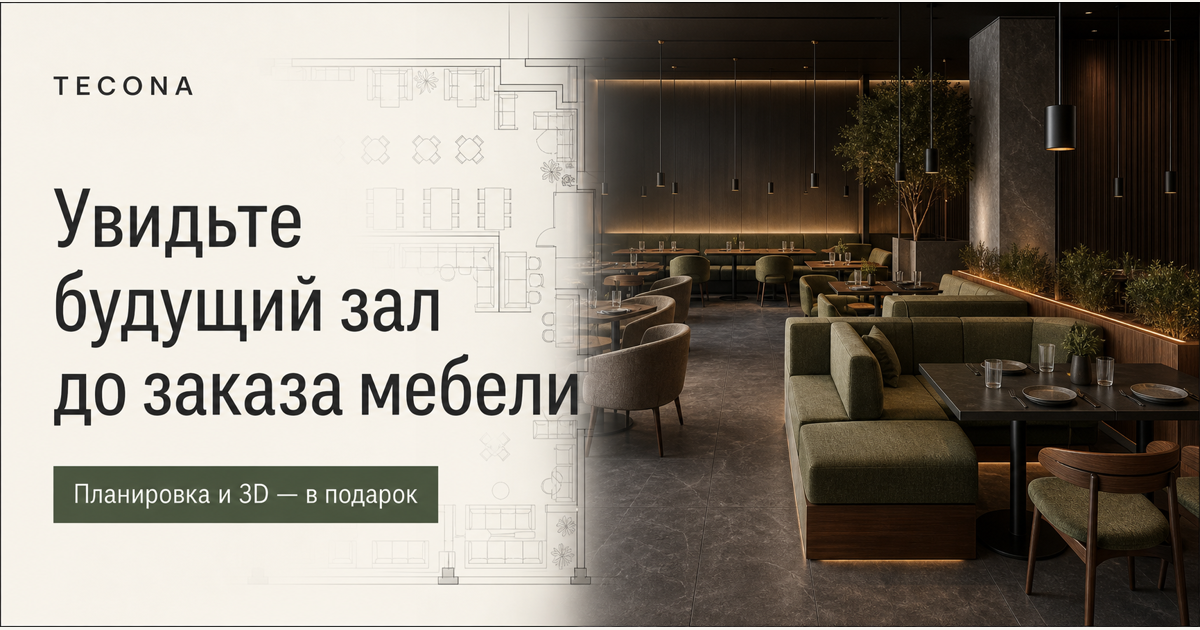
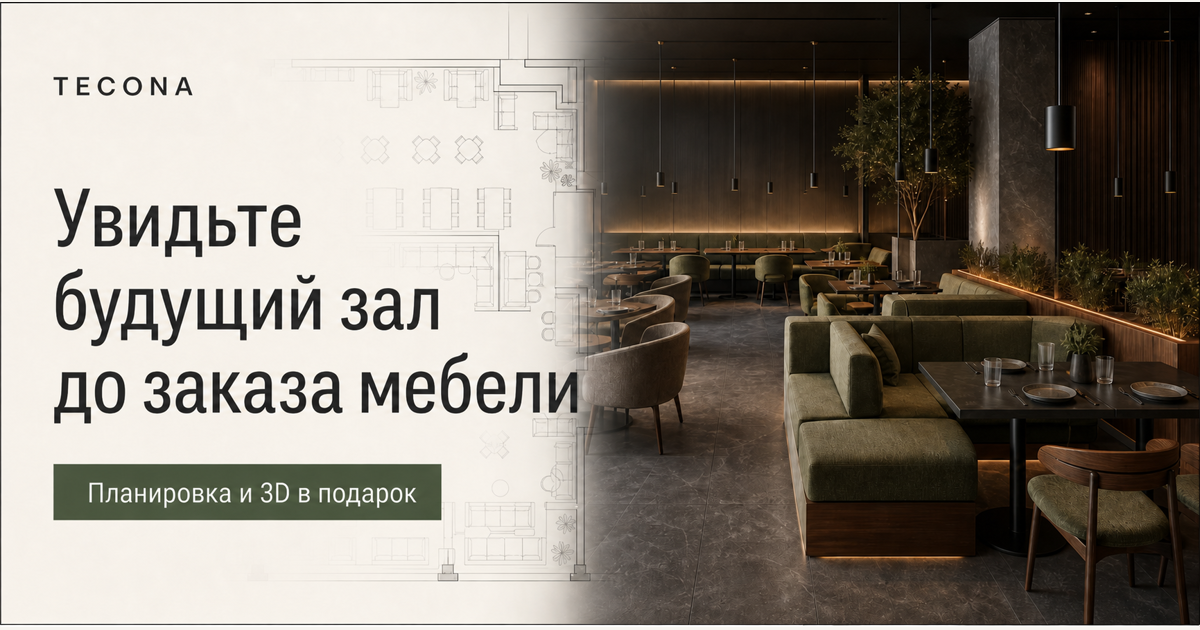
Add color gallery and simplify punctuation

diff --git a/app/page.tsx b/app/page.tsx
@@ -34,8 +34,48 @@ const benefits = [
   ["Цвет и материал", "Сравниваете варианты обивки в одной и той же обстановке."],
 ];
 
+const colorShots = [
+  {
+    image: "/color-room-olive.jpg",
+    alt: "Оливковый диван и горчичные кресла в интерьере кафе",
+    label: "Оливковый + горчичный",
+    portrait: false,
+  },
+  {
+    image: "/color-room-yellow.jpg",
+    alt: "Горчичный диван и розовые кресла в интерьере кафе",
+    label: "Горчичный + розовый",
+    portrait: false,
+  },
+  {
+    image: "/color-palette-nine.jpg",
+    alt: "Девять вариантов цвета дивана в одном интерьере",
+    label: "9 оттенков дивана",
+    portrait: true,
+  },
+  {
+    image: "/color-palette-four.jpg",
+    alt: "Четыре варианта цвета дивана в одном интерьере",
+    label: "4 базовых оттенка",
+    portrait: true,
+  },
+  {
+    image: "/color-combinations.jpg",
+    alt: "Четыре сочетания цветов дивана и кресел",
+    label: "Диван + стулья",
+    portrait: false,
+  },
+  {
+    image: "/color-variants.jpg",
+    alt: "Сравнение цветовых вариантов мебели в одном интерьере",
+    label: "Два решения",
+    portrait: true,
+  },
+];
+
 export default function Home() {
   const [stage, setStage] = useState(1);
+  const [colorShot, setColorShot] = useState(0);
   const [sent, setSent] = useState(false);
 
   function handleSubmit(event: FormEvent<HTMLFormElement>) {
@@ -46,7 +86,7 @@ export default function Home() {
   return (
     <main>
       <header className="site-header">
-        <a className="brand" href="#top" aria-label="Tecona — на главную">
+        <a className="brand" href="#top" aria-label="Tecona, на главную">
           <Image src="/tecona-logo.svg" alt="Tecona" width={132} height={52} priority />
         </a>
         <nav className="desktop-nav" aria-label="Основная навигация">
@@ -71,11 +111,11 @@ export default function Home() {
         />
         <div className="hero-shade" />
         <div className="hero-content">
-          <div className="eyebrow light"><span /> Планировка и 3D — в подарок</div>
+          <div className="eyebrow light"><span /> Планировка и 3D в подарок</div>
           <h1>Увидьте будущий зал<br />до заказа мебели</h1>
           <p>
             По размерам помещения подготовим схему расстановки и
-            3D-визуализацию с мебелью Tecona — поможем оценить посадку,
+            3D-визуализацию с мебелью Tecona, поможем оценить посадку,
             проходы и цвета.
           </p>
           <div className="hero-actions">
@@ -100,7 +140,7 @@ export default function Home() {
       <section className="intro section" id="result">
         <div className="section-heading">
           <div className="eyebrow"><span /> Не просто подбор мебели</div>
-          <h2>От размеров помещения —<br />к понятному образу будущего зала</h2>
+          <h2>От размеров помещения<br />к понятному образу будущего зала</h2>
         </div>
         <div className="intro-copy">
           <p className="large-copy">
@@ -184,16 +224,16 @@ export default function Home() {
       </section>
 
       <section className="color-section section" id="process">
-        <div className="color-visual">
+        <div className={`color-visual ${colorShots[colorShot].portrait ? "color-portrait" : ""}`}>
           <Image
-            src="/color-variants.jpg"
-            alt="Сравнение цветовых вариантов мебели в одном интерьере"
+            key={colorShots[colorShot].image}
+            src={colorShots[colorShot].image}
+            alt={colorShots[colorShot].alt}
             fill
             sizes="(max-width: 900px) 100vw, 55vw"
           />
-          <div className="color-chip chip-one">шалфей</div>
-          <div className="color-chip chip-two">пыльная роза</div>
-          <div className="color-chip chip-three">горчица</div>
+          <div className="color-main-label">{colorShots[colorShot].label}</div>
+          <div className="color-counter">{String(colorShot + 1).padStart(2, "0")} / {String(colorShots.length).padStart(2, "0")}</div>
         </div>
         <div className="color-copy">
           <div className="eyebrow"><span /> Цвет без сомнений</div>
@@ -207,13 +247,27 @@ export default function Home() {
             <li><span>02</span> Показываем альтернативные сочетания</li>
             <li><span>03</span> Фиксируем выбранный вариант в заказе</li>
           </ul>
+          <div className="color-thumbs" aria-label="Примеры цветовых решений">
+            {colorShots.map((shot, index) => (
+              <button
+                className={colorShot === index ? "active" : ""}
+                key={shot.image}
+                onClick={() => setColorShot(index)}
+                aria-label={`Показать пример: ${shot.label}`}
+                aria-pressed={colorShot === index}
+              >
+                <Image src={shot.image} alt="" fill sizes="92px" />
+                <span>{String(index + 1).padStart(2, "0")}</span>
+              </button>
+            ))}
+          </div>
         </div>
       </section>
 
       <section className="steps-section section">
         <div className="section-heading">
           <div className="eyebrow"><span /> Как это работает</div>
-          <h2>Отправьте план —<br />остальное сделаем вместе</h2>
+          <h2>Отправьте план.<br />Остальное сделаем вместе</h2>
         </div>
         <div className="steps-list">
           {[

diff --git a/app/globals.css b/app/globals.css
@@ -535,9 +535,16 @@ p {
 
 .color-visual img {
   object-fit: cover;
+  animation: imageIn 0.35s ease both;
 }
 
-.color-chip {
+.color-visual.color-portrait img {
+  object-fit: contain;
+  background: #d9d5cc;
+}
+
+.color-main-label,
+.color-counter {
   position: absolute;
   padding: 10px 14px;
   background: rgba(247, 245, 240, 0.93);
@@ -547,19 +554,14 @@ p {
   letter-spacing: 0.08em;
 }
 
-.chip-one {
-  top: 17%;
-  left: 8%;
+.color-main-label {
+  left: 22px;
+  bottom: 22px;
 }
 
-.chip-two {
-  bottom: 35%;
-  left: 8%;
-}
-
-.chip-three {
-  bottom: 9%;
-  right: 7%;
+.color-counter {
+  top: 22px;
+  right: 22px;
 }
 
 .color-copy h2 {
@@ -588,6 +590,51 @@ p {
   width: 50px;
   color: rgba(43, 42, 40, 0.42);
   font-size: 11px;
+}
+
+.color-thumbs {
+  display: grid;
+  grid-template-columns: repeat(6, 1fr);
+  gap: 8px;
+  margin-top: 30px;
+}
+
+.color-thumbs button {
+  aspect-ratio: 1;
+  padding: 0;
+  position: relative;
+  overflow: hidden;
+  border: 2px solid transparent;
+  background: var(--sand);
+  cursor: pointer;
+  opacity: 0.58;
+  transition: opacity 0.2s ease, border-color 0.2s ease, transform 0.2s ease;
+}
+
+.color-thumbs button:hover,
+.color-thumbs button.active {
+  opacity: 1;
+}
+
+.color-thumbs button.active {
+  border-color: var(--green);
+  transform: translateY(-2px);
+}
+
+.color-thumbs img {
+  object-fit: cover;
+}
+
+.color-thumbs span {
+  position: absolute;
+  left: 5px;
+  bottom: 5px;
+  min-width: 19px;
+  padding: 3px 4px;
+  background: rgba(247, 245, 240, 0.88);
+  color: var(--ink);
+  font-size: 8px;
+  font-weight: 800;
 }
 
 .steps-section {
@@ -1075,6 +1122,12 @@ footer > div {
     min-height: 560px;
   }
 
+  .color-thumbs {
+    grid-template-columns: repeat(6, minmax(54px, 1fr));
+    overflow-x: auto;
+    padding-bottom: 6px;
+  }
+
   .steps-section {
     padding-top: 90px;
     padding-bottom: 90px;
@@ -1140,6 +1193,16 @@ footer > div {
 
   .color-visual {
     min-height: 430px;
+  }
+
+  .color-main-label {
+    left: 14px;
+    bottom: 14px;
+  }
+
+  .color-counter {
+    top: 14px;
+    right: 14px;
   }
 
   .form-row {

diff --git a/app/layout.tsx b/app/layout.tsx
@@ -18,7 +18,7 @@ export async function generateMetadata(): Promise<Metadata> {
     requestHeaders.get("x-forwarded-proto") ??
     (host.startsWith("localhost") ? "http" : "https");
   const baseUrl = new URL(`${protocol}://${host}`);
-  const title = "Планировка и 3D-визуализация зала — Tecona";
+  const title = "Планировка и 3D-визуализация зала | Tecona";
   const description =
     "Планировка зала и 3D-визуализация с мебелью Tecona в подарок при комплектации проекта.";
 
